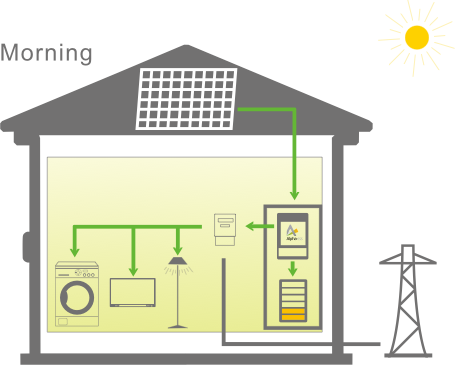
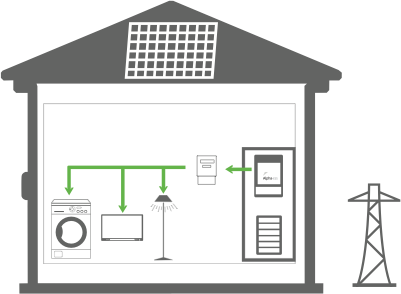
change house style

diff --git a/css/index.css b/css/index.css
@@ -125,15 +125,16 @@
   width:500px;
   height:230px;
   position:relative;
-  left:50%;
+  left:10%;
+  top:100px;
 }
 
 .house{
   background-image: url(../img/index/house.png);
-  width:455px;
-  height:365px;
+  width:401px;
+  height:294px;
   position:relative;
-  left:50%;
+  left:40%;
   margin-left:-227px;
 }
 
@@ -144,7 +145,7 @@
   height:783px;
   margin-left:-391px;
   position:relative;
-  left:50%;
+  left:40%;
   top:-200px;
 }
 
